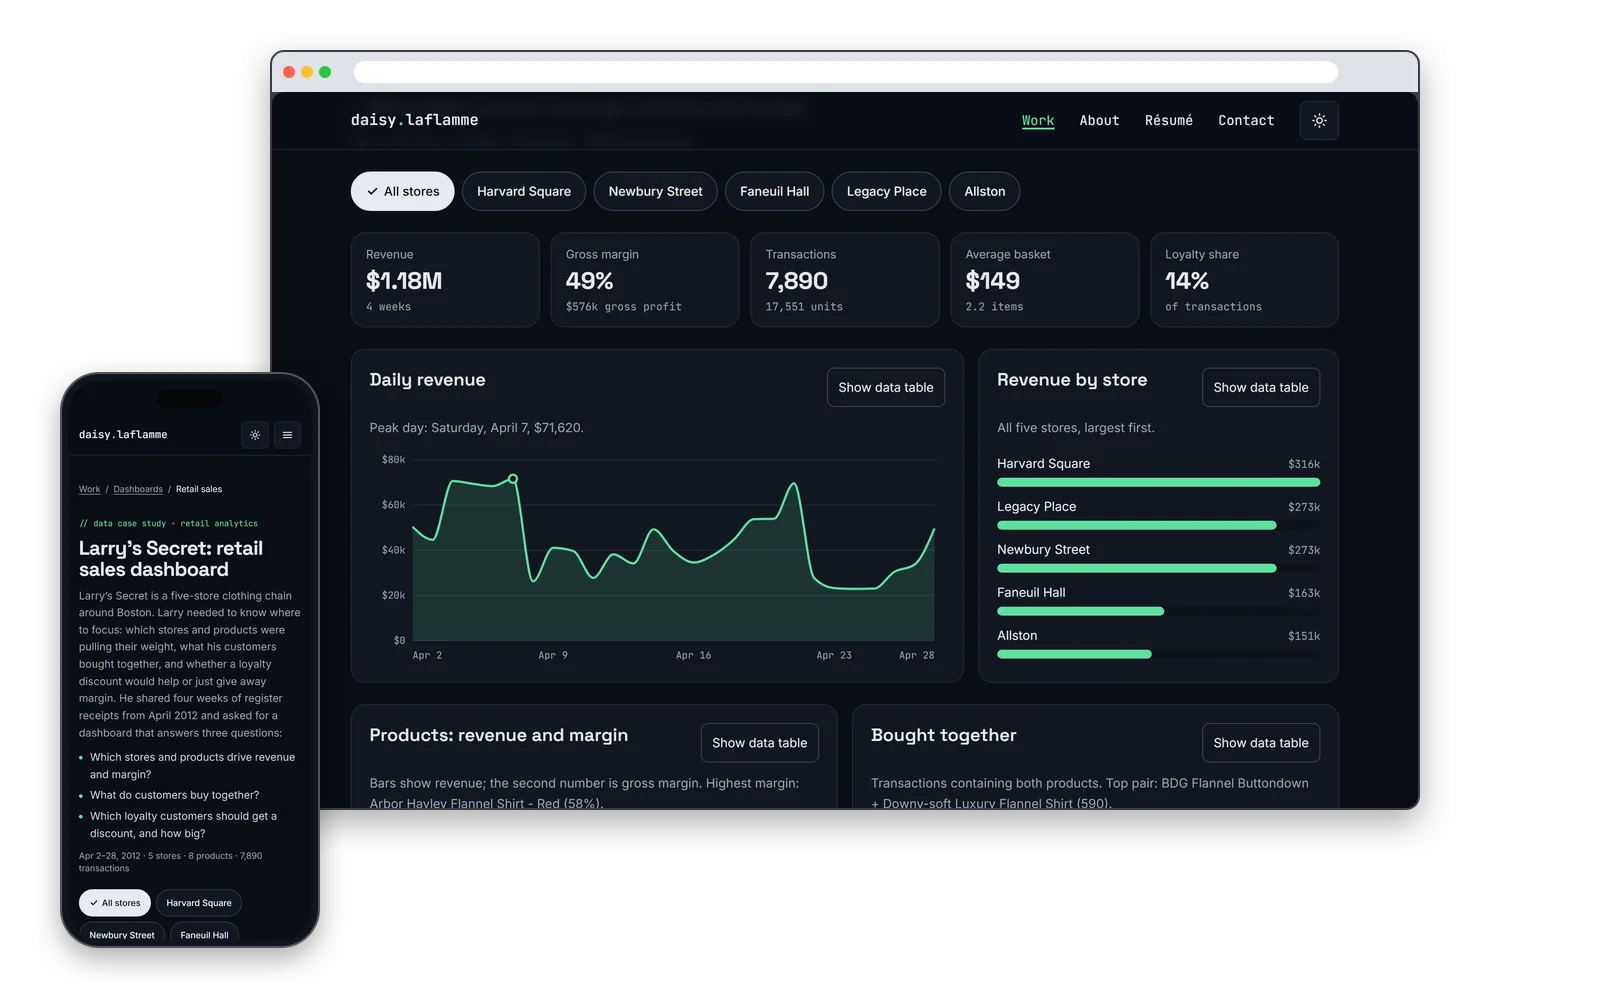
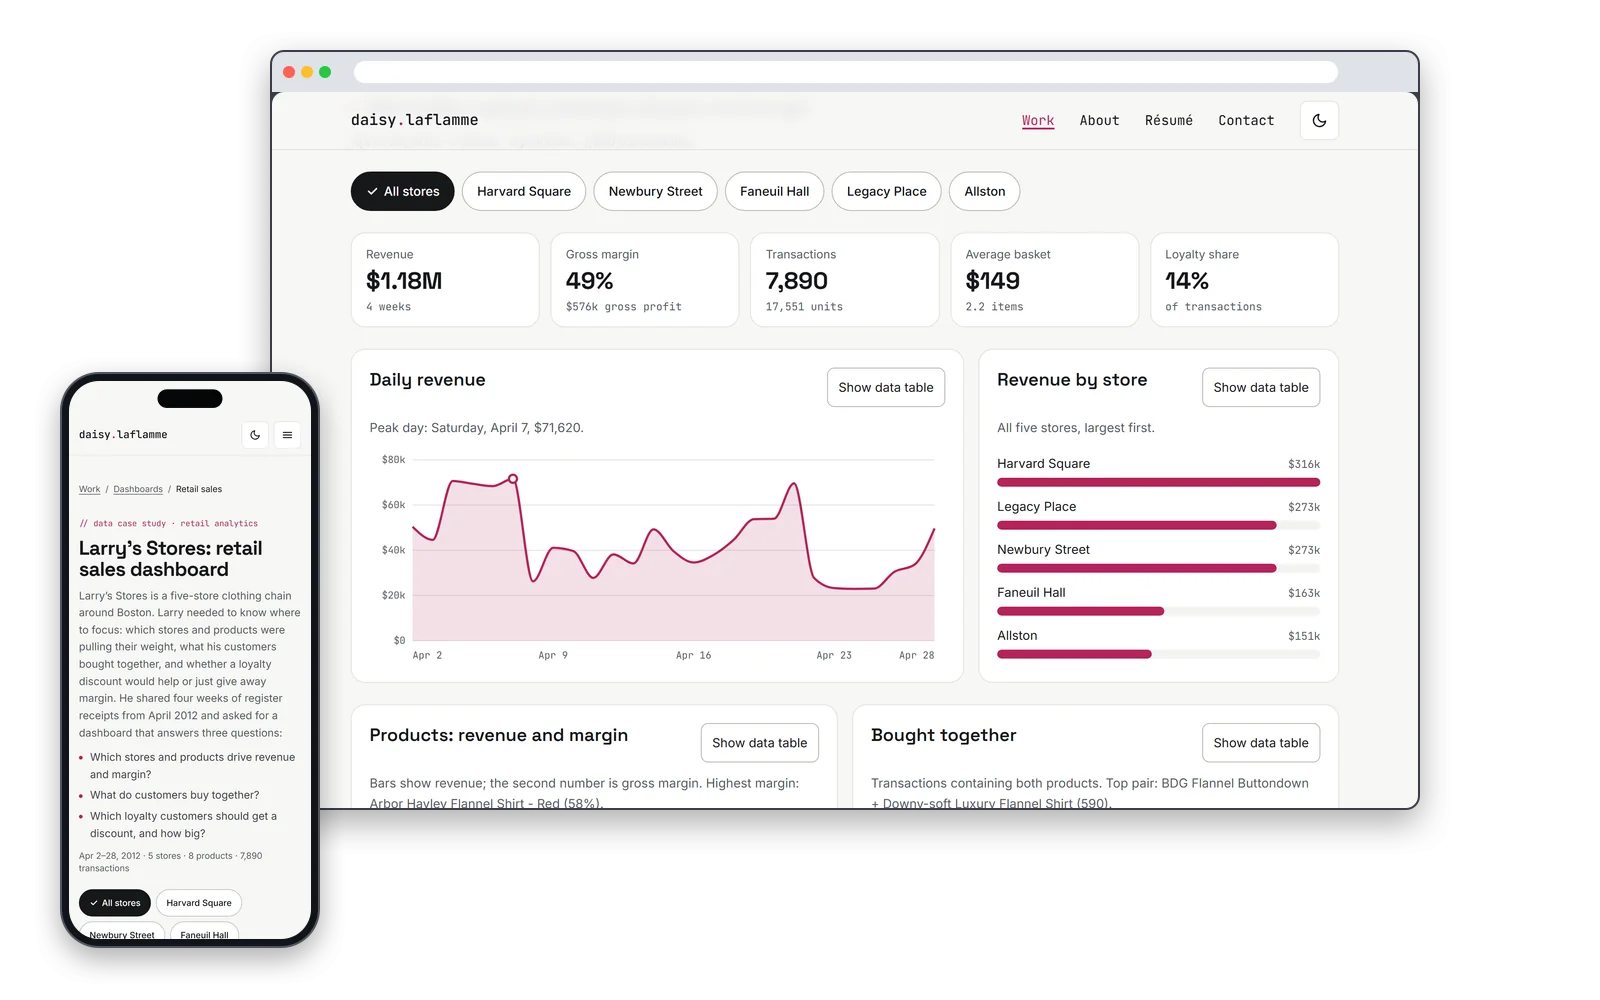
Larry's Stores screenshots in the light theme
Its screenshots.config.mjs entry is now theme "light", so its cards look
different from the Online Retail cards, which stay dark. The hero, desktop and
phone captures are re-taken with the same file names (74-100 KB WebP), and the
alt text says "light theme".

diff --git a/src/data/projects.ts b/src/data/projects.ts
@@ -245,8 +245,8 @@ export const projects: Project[] = [
     imageAlt: retailDashboard.imageAlt,
     imageAlts: [
       retailDashboard.imageAlt,
-      "Larry’s Stores dashboard in a desktop browser, dark theme: store filters, five KPI tiles, the daily revenue chart and revenue by store.",
-      "Larry’s Stores dashboard on a phone, dark theme: the title, the three questions it answers, the date and store summary, and store filters.",
+      "Larry’s Stores dashboard in a desktop browser, light theme: store filters, five KPI tiles, the daily revenue chart and revenue by store.",
+      "Larry’s Stores dashboard on a phone, light theme: the title, the three questions it answers, the date and store summary, and store filters.",
     ],
     link: retailDashboard.href,
     linkLabel: "open dashboard",

diff --git a/src/data/dashboards.ts b/src/data/dashboards.ts
@@ -37,7 +37,7 @@ export const retailDashboard: FeaturedWorkItem = {
     "/images/projects/retail-dashboard/retail-dashboard-desktop.webp",
     "/images/projects/retail-dashboard/retail-dashboard-phone.webp",
   ],
-  imageAlt: "Larry’s Stores retail sales dashboard in dark theme on a laptop and a phone: store filters, KPI tiles and charts",
+  imageAlt: "Larry’s Stores retail sales dashboard in light theme on a laptop and a phone: store filters, KPI tiles and charts",
   tags: ["react", "typescript", "d3", "nextjs", "accessibility", "data-visualization", "retail"],
   stack: RETAIL_DASHBOARD_STACK,
   role: "Designer and engineer (solo)",
